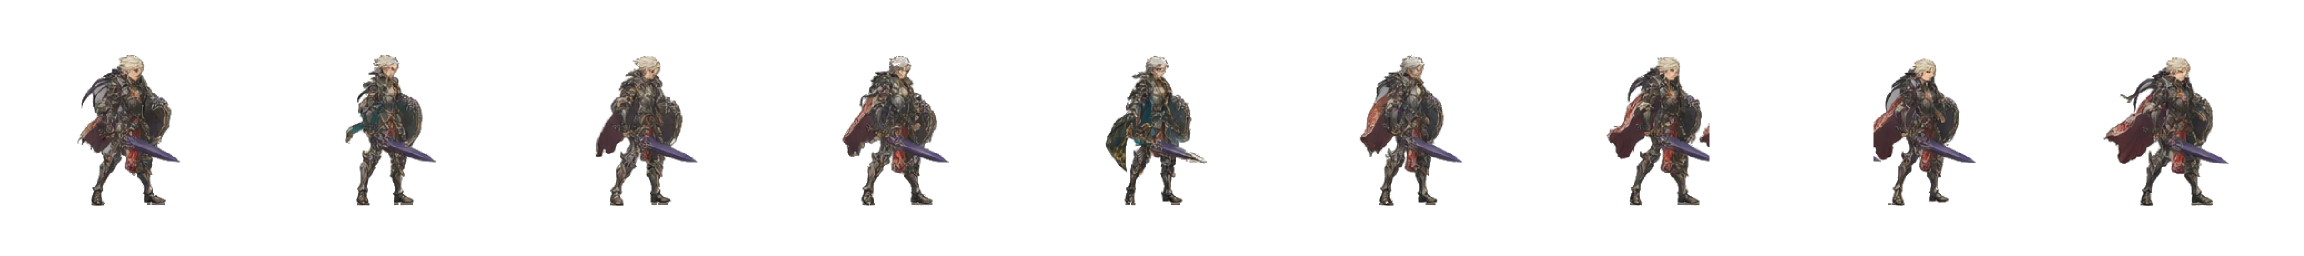
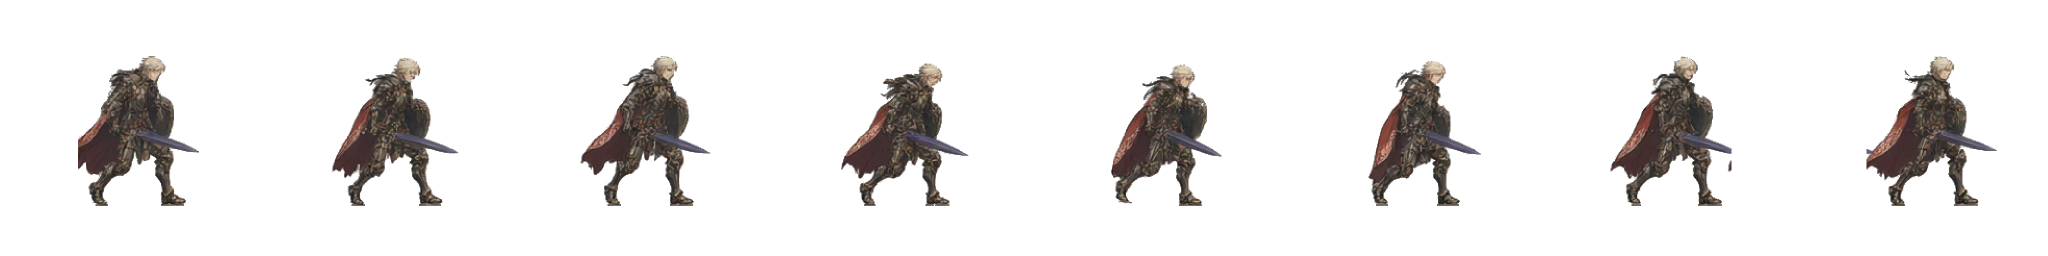
레온 전용 시트 재조합(Morphic 세 시트에서 골라 조합)·타격 프레임 메타·가공 스크립트 보강
걷기 8·공격 7(준비 동작+찌르기, 칸 384)·쓰러짐 5·오의 8·대기 6. 공격 타격 프레임을 meta.js 로 지정(6번째), 전용 시트 없는 캐릭터용 임시 별칭(SIDE_ALIAS).
slice_sheet.js: 자동 경계(cuts:auto), skip 줄, standRow, 칸 크기 지정.

diff --git a/assets/side/anim/meta.js b/assets/side/anim/meta.js
@@ -1,0 +1,16 @@
+// 전용 시트 메타: 캐릭터 키 → 동작 → { n: 프레임 수, hit: 타격(피해가 들어가는) 프레임 번호(0부터) }
+// 게임은 일반 공격에서 이 프레임이 화면에 나오는 순간에 피해를 준다. 없으면 애니메이션의 53% 지점.
+window.SIDE_META = Object.assign(window.SIDE_META || {}, {
+  warrior: { atk: { n: 7, hit: 5 } },
+});
+
+// 임시 별칭: 전용 시트가 없는 캐릭터가 다른 캐릭터의 시트를 색만 바꿔 쓴다(화풍을 맞추기 위한 임시 조치).
+// 키 → { key: 빌려 쓸 시트 키, filter: CSS 필터 }. 각자의 전용 시트(assets/side/anim/{키}/idle_0.png)가 생기면 그 줄을 지운다.
+window.SIDE_ALIAS = Object.assign(window.SIDE_ALIAS || {}, {
+  thief:  { key: 'warrior', filter: 'hue-rotate(205deg) saturate(1.15)' },
+  elf:    { key: 'warrior', filter: 'hue-rotate(85deg) saturate(1.1)' },
+  priest: { key: 'warrior', filter: 'hue-rotate(300deg) saturate(.9) brightness(1.15)' },
+  grunt:  { key: 'warrior', filter: 'hue-rotate(-35deg) saturate(1.25) brightness(.95)' },
+  archer: { key: 'warrior', filter: 'hue-rotate(120deg) saturate(.9)' },
+  brute:  { key: 'warrior', filter: 'hue-rotate(250deg) saturate(.85) brightness(.85)' },
+});

diff --git a/assets/side/anim/README.md b/assets/side/anim/README.md
@@ -56,4 +56,8 @@ node tools/slice_sheet.js 입력.png 설정.json
 - 설정 예: `tools/slice_example_warrior.json` (줄 순서대로 `{act, n}`, 자동 분할이 어긋나면 `cuts`에 프레임 사이 경계 x 좌표를 직접 준다. 경계 후보는 `SLICE_DEBUG=1` 로 보거나 세로 투영의 골짜기에서 찾는다)
 - 결과는 `tools/side_preview.html` 의 "불러오기"로 점검한다.
 - 한계: 줄 수가 설정과 다르면 중단한다. 프레임이 서로 맞닿으면 `cuts` 가 필요할 수 있다. 시트가 정면에 가까운 3/4 시점이면 그 모습 그대로 들어간다.
+- 설정 옵션 추가: 줄마다 `"cuts":"auto"`(프레임 사이 빈 틈을 찾아 자동 분할), `"act":"skip"`(그 줄은 쓰지 않음), 최상위 `"standRow"`(서 있는 키를 재는 기준 줄 번호), `"cell"`(칸 크기: 칼이 길게 뻗는 공격 시트는 384처럼 키울 수 있다 — 캐릭터 크기는 칸과 상관없이 targetH 로 일정하다). 여러 시트에서 동작을 골라 한 캐릭터로 조합할 때는 시트마다 설정을 두고 같은 `out` 폴더에 차례로 실행한다.
+
+## 타격 프레임 메타 (`assets/side/anim/meta.js`)
+`window.SIDE_META = { 키: { atk: { n: 프레임 수, hit: 타격 프레임 번호(0부터) } } }` — 일반 공격에서 **그 프레임이 화면에 나오는 순간** 피해가 들어간다(없으면 애니메이션의 약 53% 지점). 예: 레온 공격 시트는 7프레임 중 칼이 뻗는 6번째(번호 5).
 
